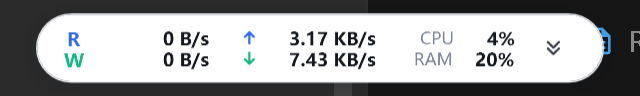
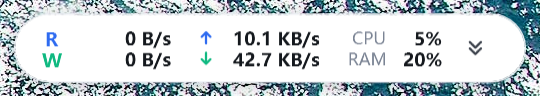
更新 README 截图：干净桌面背景、当前 2/3 尺寸与一位小数速率

diff --git a/README.md b/README.md
@@ -7,10 +7,10 @@
 > A floating performance monitor widget for Windows, styled after NAS dashboards.
 
 <p align="center">
-  <img src="docs/screenshot-compact.png" alt="紧凑悬浮条" width="480"/>
+  <img src="docs/screenshot-compact.png" alt="紧凑悬浮条" width="540"/>
 </p>
 <p align="center">
-  <img src="docs/screenshot-expanded.png" alt="展开面板" width="380"/>
+  <img src="docs/screenshot-expanded.png" alt="展开面板" width="360"/>
 </p>
 
 ## 特性
